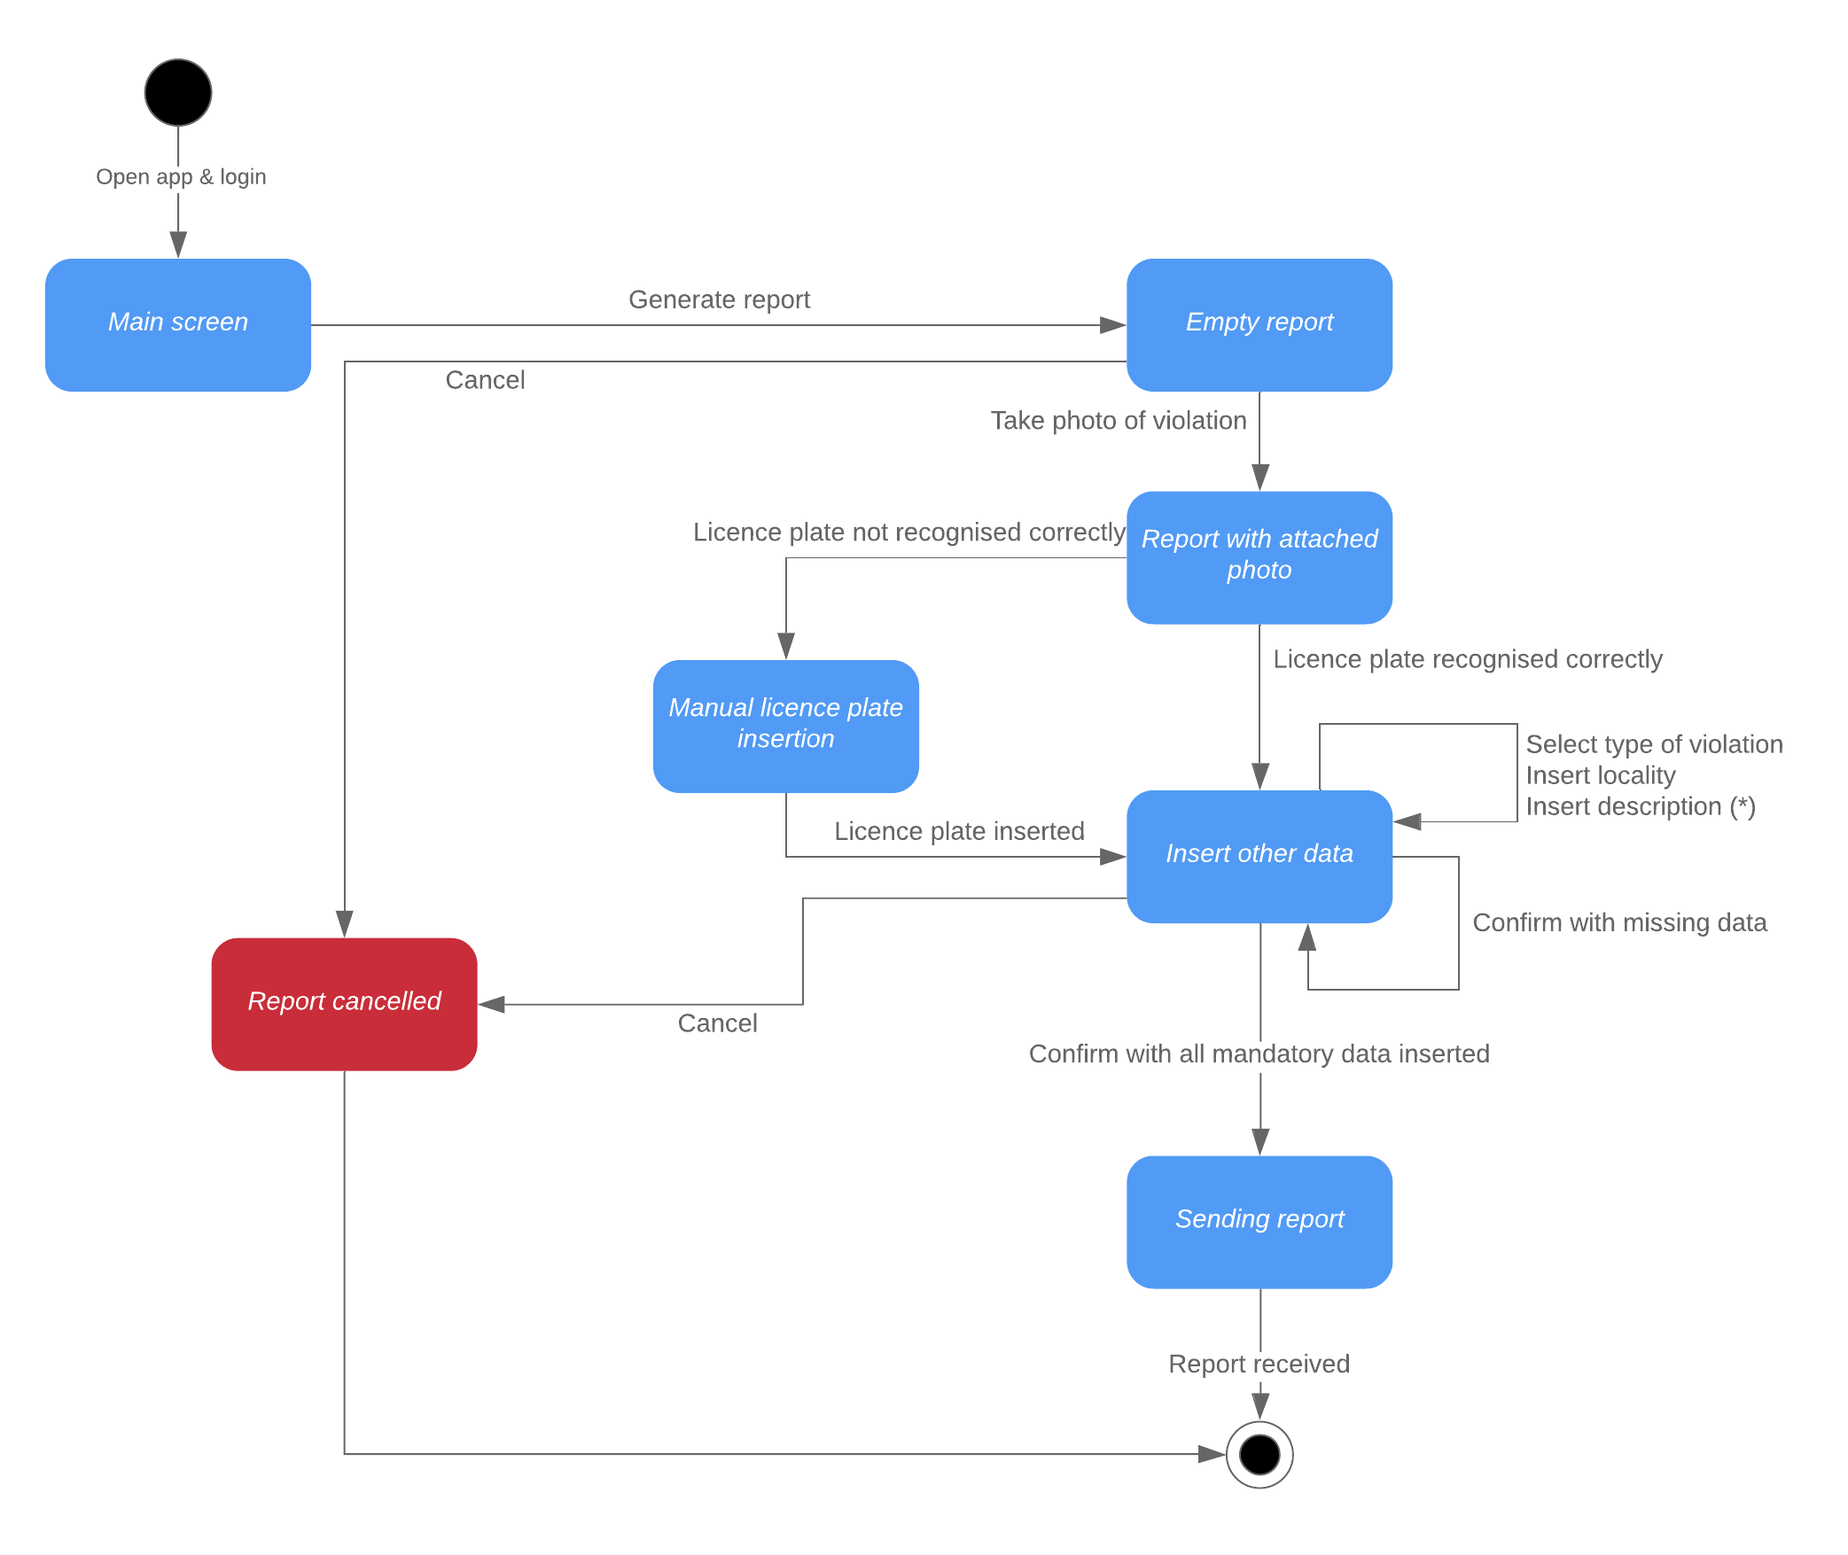
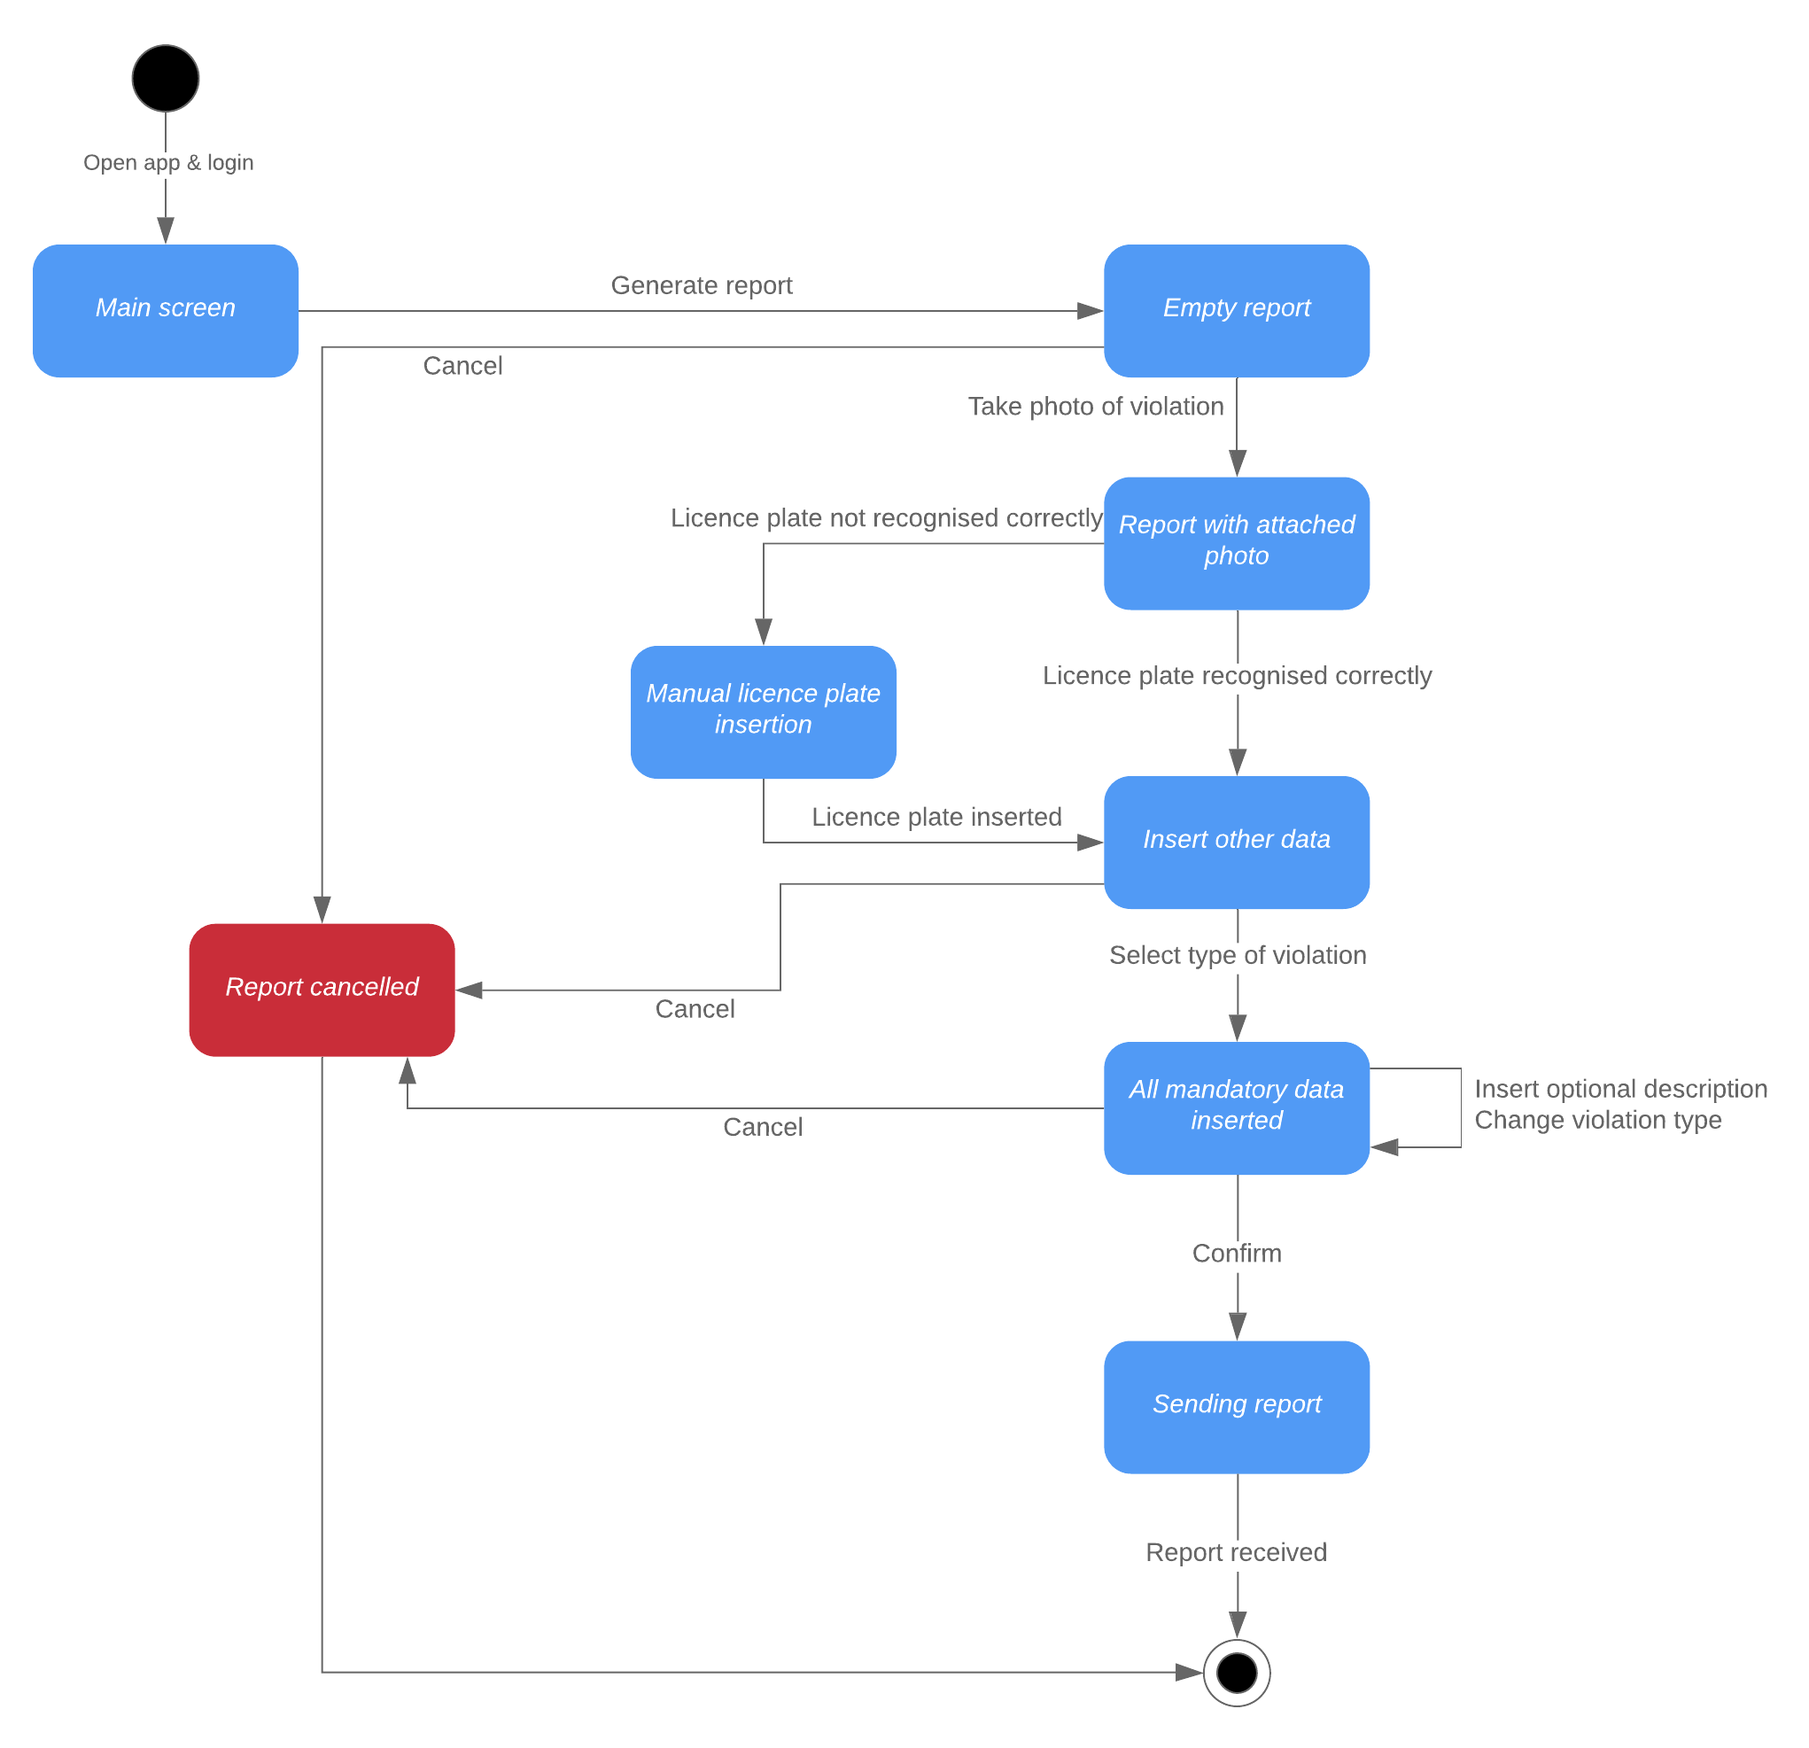
Revision of part 2, add missing section

diff --git a/Documentation/RASD/Sections/ProductPerspective.tex b/Documentation/RASD/Sections/ProductPerspective.tex
@@ -1,4 +1,4 @@
-The core concept of the application is to provide to citizens of any city a reliable and fast way to report traffic violations they see on streets, trying to improve the their awareness about the topic and addressing a social problem that could potentially harm the viability of the city or cause problems to people with disability. SafeStreets' main method to achieve this is to be an intermediary between the citizens, who have the responsibility of reporting the violations, and the authorities, who can access the report and take care of them. The system allows an asynchronous interaction between parts, avoiding time loss for both the actors.
+The core concept of the application is to provide to citizens of any city a reliable and fast way to report traffic violations they see on streets, trying to improve their awareness about the topic and addressing a social problem that could potentially harm the viability of the city or cause problems to people with disability. To achieve this goal, SafeStreets behaves as an intermediary between the citizens, who have the responsibility of reporting the violations, and the authorities, who can access the report and take care of them. The system allows an asynchronous interaction between parts, avoiding time loss for both the actors.
 
 The municipalities can also have various benefits too when registered to the system, because SafeStreets provide them a way to integrate their data about violations with the ones stored in SafeStreets' databases, calculating then the most unsafe areas and providing suggestions about possible interventions to improve them.
 
@@ -10,13 +10,15 @@ The following class diagrams shows the model of the application domain and its m
 	\caption{Class diagram}
 \end{figure}
 
-User abstract class represents the common structure and attributes shared between all types of accounts that reflect the role of the customers of the system. Citizens' main role is to generate reports to populate the databases of violations, while the authorities can check these reports and update their status from pending (default initial status) to validated or invalidated based on the fact if the violation has been certified or not. Municipality accounts instead can visualize the list of interventions to improve the situation of detected unsafe areas and also rate the suggestions to give a feedback to the system. All account types can submit data request for visualizing aggregated information relevant to them, but only authorities can visualize single reports (actually a citizen can visualize single reports, but only the ones made by himself).
+User abstract class represents the common structure and attributes shared between all types of accounts that reflect the role of the customers of the system. Citizens' main role is to generate reports to populate the databases of violations, while the authorities can check these reports and update their status from pending (default initial status) to validated or invalidated, based on the fact if the violation has been certified or not. Municipality accounts instead can visualize the list of interventions to improve the situation of detected unsafe areas and also rate the suggestions to give a feedback to the system. All account types can submit data requests for visualizing aggregated information relevant to them, but only authorities can visualize single reports (actually a citizen can visualize single reports too, but only the ones made by himself).
+
+Another important aspect to underline is that Municipalities and Authorities have also a city attribute, that identify the city on which they have jurisdiction. This allow the system to provide them respectively a list of  interventions and reports that are situated in their area of interest. 
 
 Report entity could be considered central in the entire system because it contains various references to many other entities of the model and its essential to achieve the goals of the application. Reports have attributes that specify their type, the date and hour of the violation, and their actual status. Other fields are references to other class objects, like the vehicle involved, the location of the violation, the citizen who submits the report and the authority who has supervised its certification. It's important to note that vehicle and location entities have a strict composition relation with the report entities, this means that if no more reports with that vehicle or location are stored in the system, also the vehicle and location entities are eliminated from the system.
 
 Lastly, the location of a violation or intervention is handled by the Location-Place-City correlated entities. The separation of this entities through composition allows a higher level of granularity and maintainability. Composition is used to emphasize the fact that if no more places of a city are stored in the database, the city is also deleted from it, same thing for places if no more location coordinates of the place are needed.
 
-Next section provide multiple state diagrams, useful to better understand the main interactions that the different customers can perform with the application.
+Next section provide multiple state diagrams, useful to better understand the main actions that the different customers can perform with the application.
 
 \begin{figure}[H]
 	\centering
@@ -24,7 +26,7 @@ Next section provide multiple state diagrams, useful to better understand the ma
 	\caption{Generate report state diagram}
 \end{figure}
 
-This state diagram specify all operations needed to complete and submit a report. After selecting the "generate report" tab, the user is asked to take a photo of the violation, with the license plate clearly visible. If not recognized, the user can insert it manually. After that it needs to insert other missing data (GPS automatically detects the location). Only the description field is completely optional and not required to confirm and submit the report.
+This state diagram specify all the operations needed to complete and submit a report. After selecting the "generate report" tab, the user is asked to take a photo of the violation, with the license plate of the transgressor's vehicle clearly visible. If the license plate is not recognized, the user can insert it manually. After that it needs to insert the violation type to complete the report (GPS automatically detects the location). The description field is completely optional and not required to confirm and submit the report.
 
 \begin{figure}[H]
 	\centering
@@ -40,7 +42,7 @@ This diagram instead focuses on the report supervision performed by the authorit
 	\caption{Suggestions evaluation state diagram}
 \end{figure}
 
-The flow of states that identifies the process of a municipality for checking the suggested interventions is pretty similar to the precedent. The municipalities can check a list of interventions from the appropriate tab and then consult them individually. They can also rate them to give a feedback to the system to improve future suggestions.
+The flow of states that identifies the process of a municipality for checking the suggested interventions is pretty similar to the precedent. The municipalities can check a list of interventions (relative to their city) from the appropriate tab and then consult them individually. They can also rate them to give a feedback to the system to improve future suggestions.
 
 \begin{figure}[H]
 	\centering
@@ -48,4 +50,4 @@ The flow of states that identifies the process of a municipality for checking th
 	\caption{Data analysis state diagram}
 \end{figure}
 
-The final state diagram describes the process done by any type of user to analyze aggregate data of interest. In the appropriate tab, the user is asked to insert spatial and temporal filters, also specifying the type of violation (left to "all" value if not interested in a more specific research). Then the user can confirm to check a density map of the violations and a small report. At any time he can update the filters or end the operation.
+The final state diagram describes the process done by any type of user to analyze aggregate data of interest in a city map. In the appropriate tab, the user is asked to insert spatial and temporal filters, also specifying the type of violation (left to "all" value if not interested in a more specific research). Then the user can confirm to check a density map of the violations and a small report, containing auxiliary text data. At any time he can update the filters or end the operation.

diff --git a/Documentation/RASD/Sections/ProductFunctions.tex b/Documentation/RASD/Sections/ProductFunctions.tex
@@ -1,5 +1,7 @@
-In the following sections the most important functions of the application are presented. The service of intervention suggestions to the municipalities is built on top of the storage data obtained by the reports from the citizens.
+In the following sections the most important functions of the application are presented. The service of intervention suggestions to the municipalities is built on top of the storage data obtained by the reports from the citizens and optionally integrated with additional violation data provided by municipalities themselves.
 \subsubsection{Violation Report}
-This product function is the main feature of the system. After the user has signed up with an e-mail and a password, the user will be able to take photos of violations and upload them on the application describing its violation type. The coordinates of the violation will be automatically determined using the GPS service of the the user's device and filled in the report. After that, the user will be able to check the status of his/her report. The system also allows the registered users to mine data from its data storage with different levels of authorization in order to protect the privacy of the individuals and avoid a misuse of the data from the common citizens.
+This product function is the main feature of the system. After the user has signed up with an e-mail and a password, the user will be able to take a photos of the violation and upload it on the application, providing its violation type and optionally a description. The coordinates of the violation will be automatically determined using the GPS service of the user's device and filled in the report. After that, the user will be able to check the status of his/her report. The system also allows the registered users to mine data from its data storage with different levels of authorization in order to protect the privacy of the individuals and avoid a misuse of the data from the common citizens.
 \subsubsection{Intervention Suggestion}
 This product function is offered when a municipality provides its own data about traffic accidents on its territory. After the municipality has signed up and provided the API to access its data, SafeStreets will cross its own data gathered from the validated reports, find the possible interventions for the most afflicted areas of the territory and notify the municipality. Then, the municipality can log in and check the suggested interventions up to that time.
+
+Because no standards are defined about violations' data cataloging, it would be too complex and time consuming for SafeStreets to build an interface to cross data with each municipality registered to the system that use a different data structure for storing violations. Because of this consideration, for using this functionality the municipality is responsible for complying to the conventions used by SafeStreets, that will be provided and accurately explained in the website page relative to the service.

diff --git a/Documentation/RASD/Sections/AssumptionsDependenciesConstraints.tex b/Documentation/RASD/Sections/AssumptionsDependenciesConstraints.tex
@@ -15,10 +15,10 @@ Domain assumptions:
 
 Any user who has a device with internet connection is able to access the services offered by SafeStreets (e.g. reporting violation with images and mining data about the previously reported violations). GPS sensor is required to report a violation.
 
-Official apps supported mobile operating systems are Android (4.2 and above) and iOS. The website can be accessed with any modern browser with AJAX support.
+Official apps supported mobile operating systems are Android (4.4 and above) and iOS (9.0 and above). The website can be accessed with any modern browser with AJAX support.
 
-The additional service of suggesting possible interventions to the most frequent traffic violations requires the municipality to provide an API to let SafeStreets access its data and augment it with its own for intervention analysis.
+The additional service of suggesting possible interventions to the most unsafe areas doesn't require the municipality to provide an API to let SafeStreets access its data and augment it with its own for intervention analysis, but it's recommended to improve drastically the results given by the algorithm.
 
-For image recognition and GPS localization services, the system employs external APIs to focus its main business on providing users the possibility to report traffic violations.
+For image recognition and GPS localization services, the system employs external APIs to focus on its main business of providing users the possibility to report traffic violations.
 
 The S2B is assumed to be distributed in Europe; it needs only an email for the registration of common citizens, and a public certified email(PCE) for the authorities. Also it must be compliant with the GDPR normative for the privacy.

diff --git a/Documentation/RASD/Sections/UserCharacteristics.tex b/Documentation/RASD/Sections/UserCharacteristics.tex
@@ -1,6 +1,6 @@
 The actors of the system are the following:
 \begin{enumerate}
-	\item \textbf{Citizen}: a common citizen without any public office, who registers to report violations and mine traffic violation data from the application data storage in order to identify and avoid the most 	 areas and streets of a city.
-	\item\textbf{Authorities}: the public officials who will receive the validated reports from the report supervisor of SafeStreets and confirm them, and will also mine data with a direct access to private information(license plate) of the transgressors.
-	\item \textbf{Municipality}: the institution that provides traffic violation data to SafeStreets and expects to get intervention suggestions in return.
+	\item \textbf{Citizen}: a common user without any public office, who registers to report violations and mine traffic violation data from the application data storage in order to identify and avoid the most unsafe areas and streets of a city.
+	\item\textbf{Authorities}: the public officials who will receive the reports from SafeStreets and have the possibility to validate or invalidate them. They could also mine data with a direct access to private information(license plate) of the transgressors.
+	\item \textbf{Municipality}: an institution that provides traffic violation data to SafeStreets and expects to get intervention suggestions in return.
 \end{enumerate}

diff --git a/Documentation/RASD/Sections/SoftwareInterfaces.tex b/Documentation/RASD/Sections/SoftwareInterfaces.tex
@@ -1,1 +1,1 @@
-The system doesn't actually provide any API interface to work with other softwares, because all data is visible and can be analyzed within the official apps and website. API could be developed in future stages of development if partners and customers find the service valuable.
+The system doesn't actually provide any API interface to work with other software, because all data is visible and can be analyzed within the official apps and website. API could be developed in future stages of development if partners and customers find the service valuable.

diff --git a/Documentation/RASD/main.tex b/Documentation/RASD/main.tex
@@ -75,6 +75,7 @@
         \subsection{Software Interfaces}
         	\subfile{Sections/SoftwareInterfaces}
         \subsection{Communication Interfaces}
+        	\subfile{Sections/CommunicationInterfaces}
     \section{Functional Requirements}
         \subsection{Citizen}
             \subfile{Sections/FunctionalRequirements_user}

diff --git a/Documentation/RASD/Sections/CommunicationInterfaces.tex b/Documentation/RASD/Sections/CommunicationInterfaces.tex
@@ -1,0 +1,1 @@
+No communication interfaces are needed by the system.
